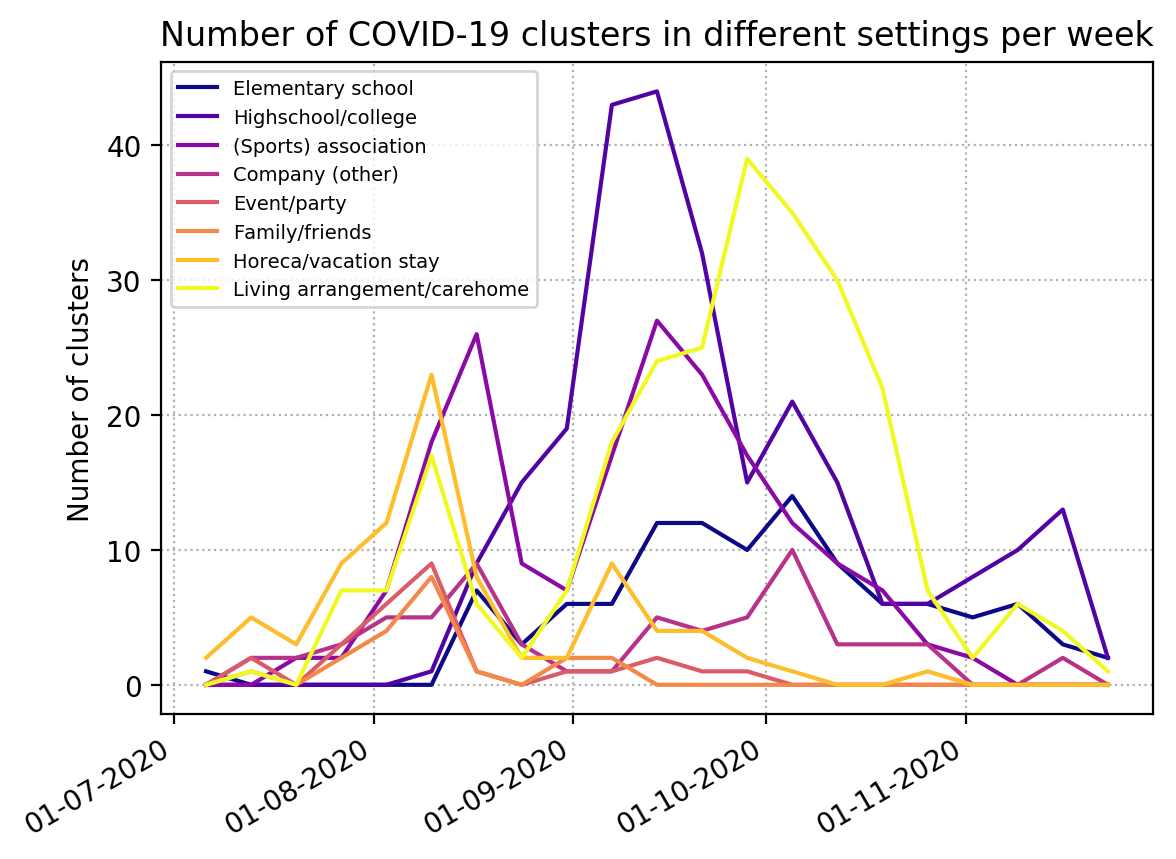
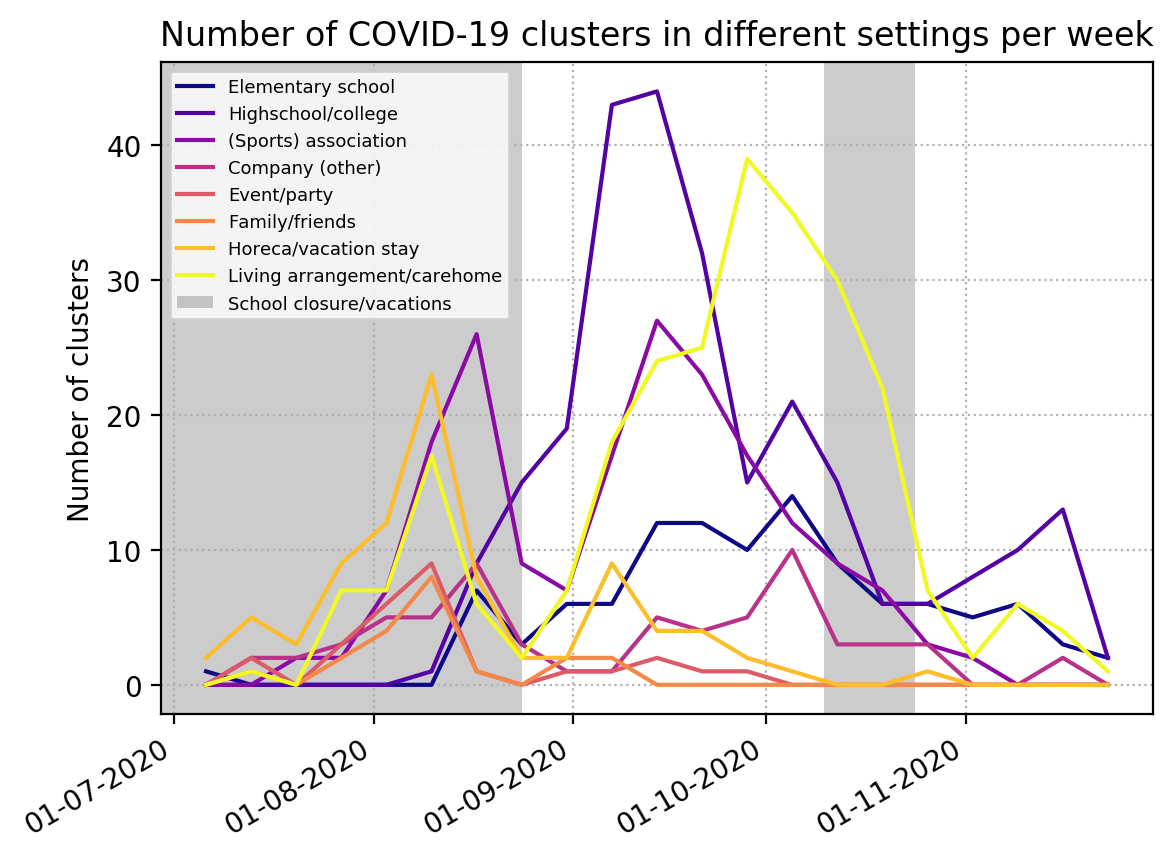
Improved clusters plot with shaded areas indicating school closures and vacations

Changed region(s): [[0.1224, 0.0605, 0.4592, 0.8475], [0.6735, 0.0605, 0.7959, 0.8475]]

diff --git a/model_coronavirus_supression.py b/model_coronavirus_supression.py
@@ -7,6 +7,7 @@ import matplotlib.pyplot as plt
 import matplotlib.dates as mdates
 import matplotlib.colors as mcolors
 import matplotlib.cm as cmx
+# import matplotlib.patches as mpatches
 
 import urllib.request
 from urllib.error import HTTPError
@@ -773,6 +774,32 @@ def dataframes_to_NDarray(df, columns):
 
 	return X
 
+def get_period_dates(periodtype):
+	"""
+	Get date ranges of certain important periods, like school closures, vacations etc
+	"""
+
+	if periodtype.lower() == 'autumn break':
+		return np.array(['2020-10-10', '2020-10-24'], dtype = np.datetime64)
+	elif periodtype.lower() == 'school closure':
+		return np.array(['2020-03-20', '2020-08-24'], dtype = np.datetime64)
+	else:
+		raise ValueError('Incorrect period type given')
+
+def shade_region(ax, dates, colour = 'black', alpha = 0.2, label = None):
+	"""
+	Shade a region in a matplotlib graph
+	"""
+	xlims = ax.get_xlim()
+	ylims = ax.get_ylim()
+
+	ax.fill([dates[0], dates[1], dates[1], dates[0]],
+			[ylims[0], ylims[0], ylims[1], ylims[1]],
+			alpha = alpha, edgecolor = 'none', facecolor = colour, label = label)
+
+	ax.set_xlim(xlims)
+	ax.set_ylim(ylims)
+
 
 def plot_prevalence_R():
 	df_prevalence, df_R0 = load_prevalence_R0_data()
@@ -1217,11 +1244,17 @@ def plot_cluster_change():
 	for i, key in enumerate(plot_columns.keys()):
 		ax.plot(df_clusters.index, df_clusters[key], label = plot_columns[key], color = scalarMap.to_rgba(i))
 
+	#also indicate school closures etc
+	autumn_break_dates = get_period_dates('autumn break')
+	shade_region(ax, autumn_break_dates, label = 'School closure/vacations')
+	school_closure_dates = get_period_dates('school closure')
+	shade_region(ax, school_closure_dates)
+
 	ax.set_ylabel('Number of clusters')
 	ax.set_title('Number of COVID-19 clusters in different settings per week')
 
 	ax.grid(linestyle = ':')
-	ax.legend(loc = 'best', prop = {'size': 7})
+	ax.legend(loc = 'best', prop = {'size': 6.5})
 
 	fig.autofmt_xdate()
 	myfmt = mdates.DateFormatter('%d-%m-%Y')
